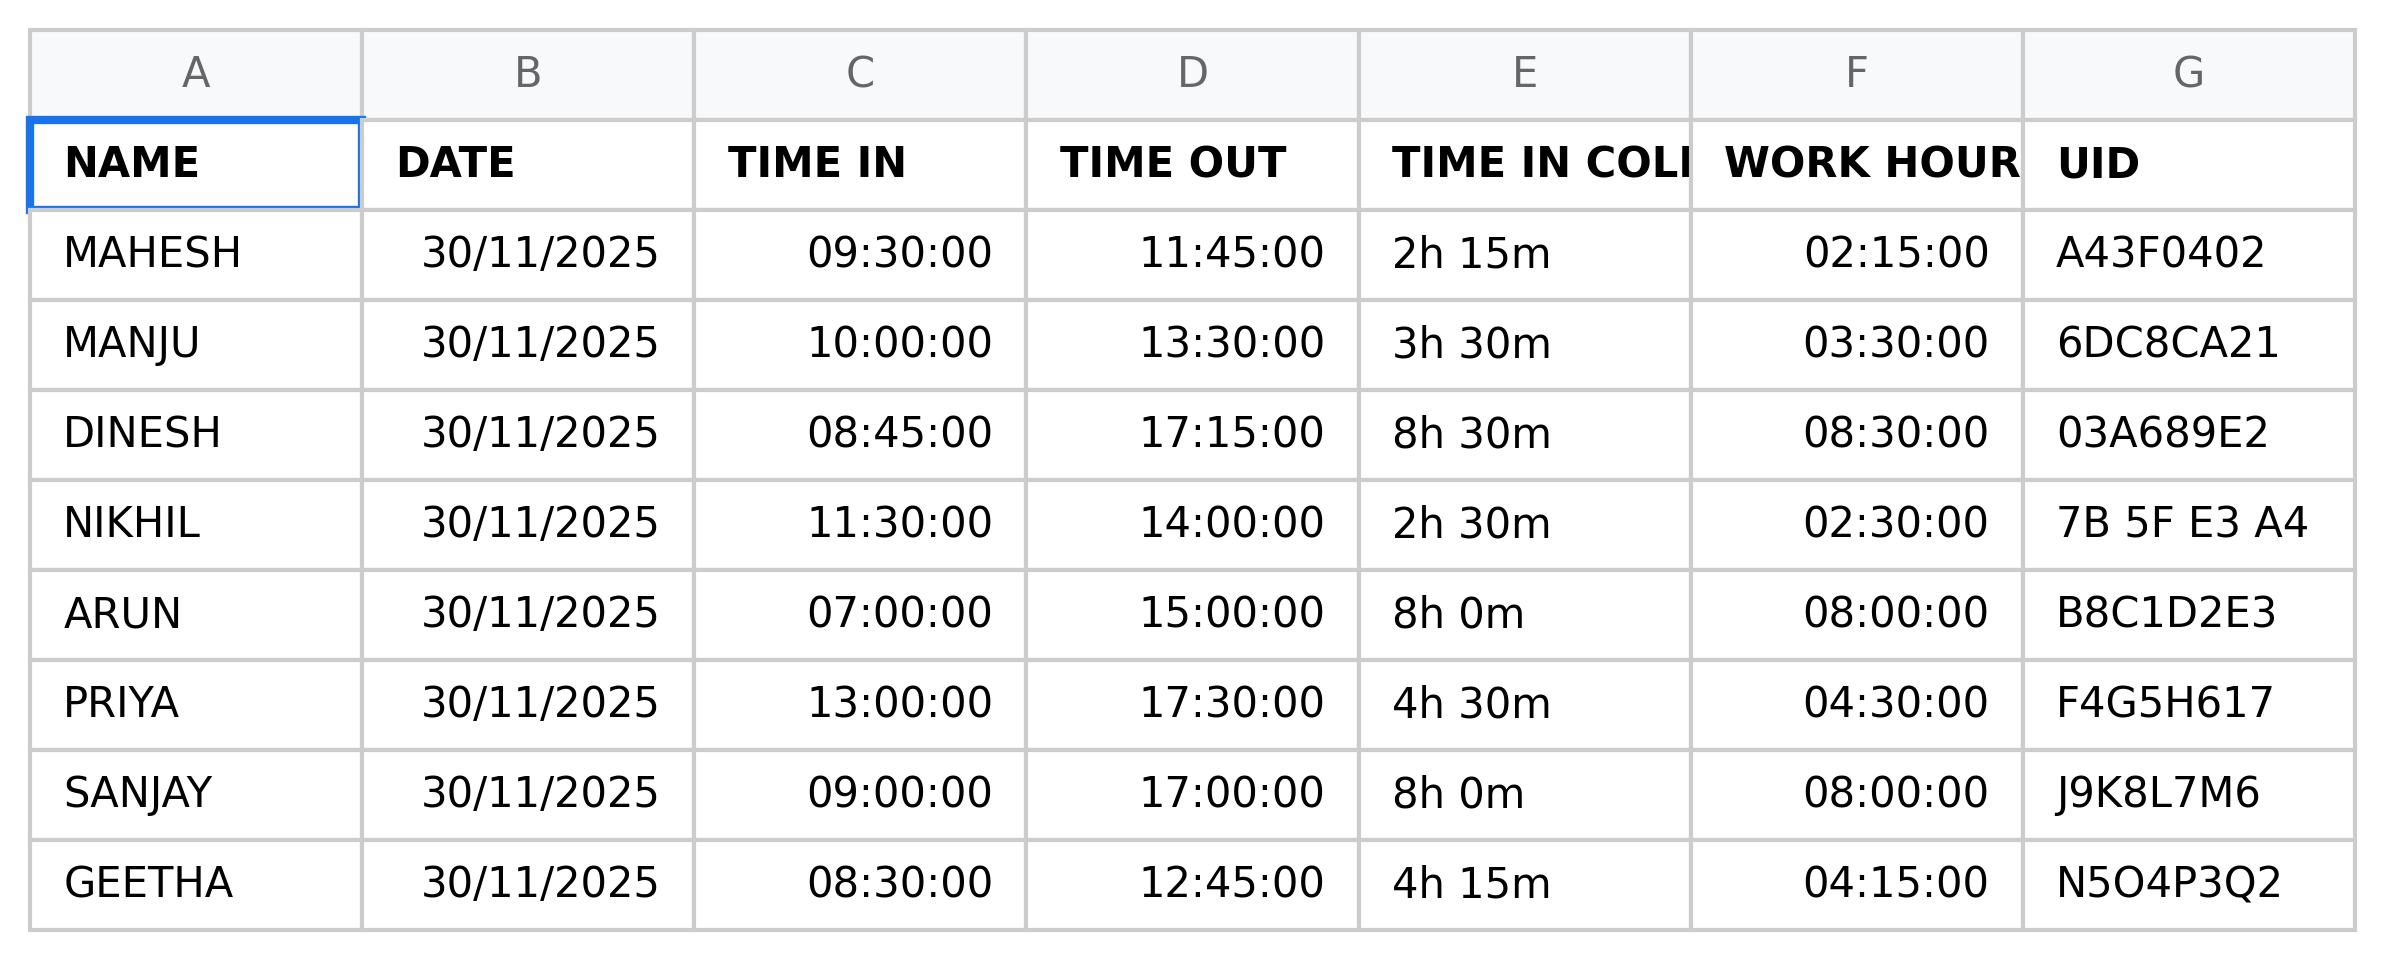
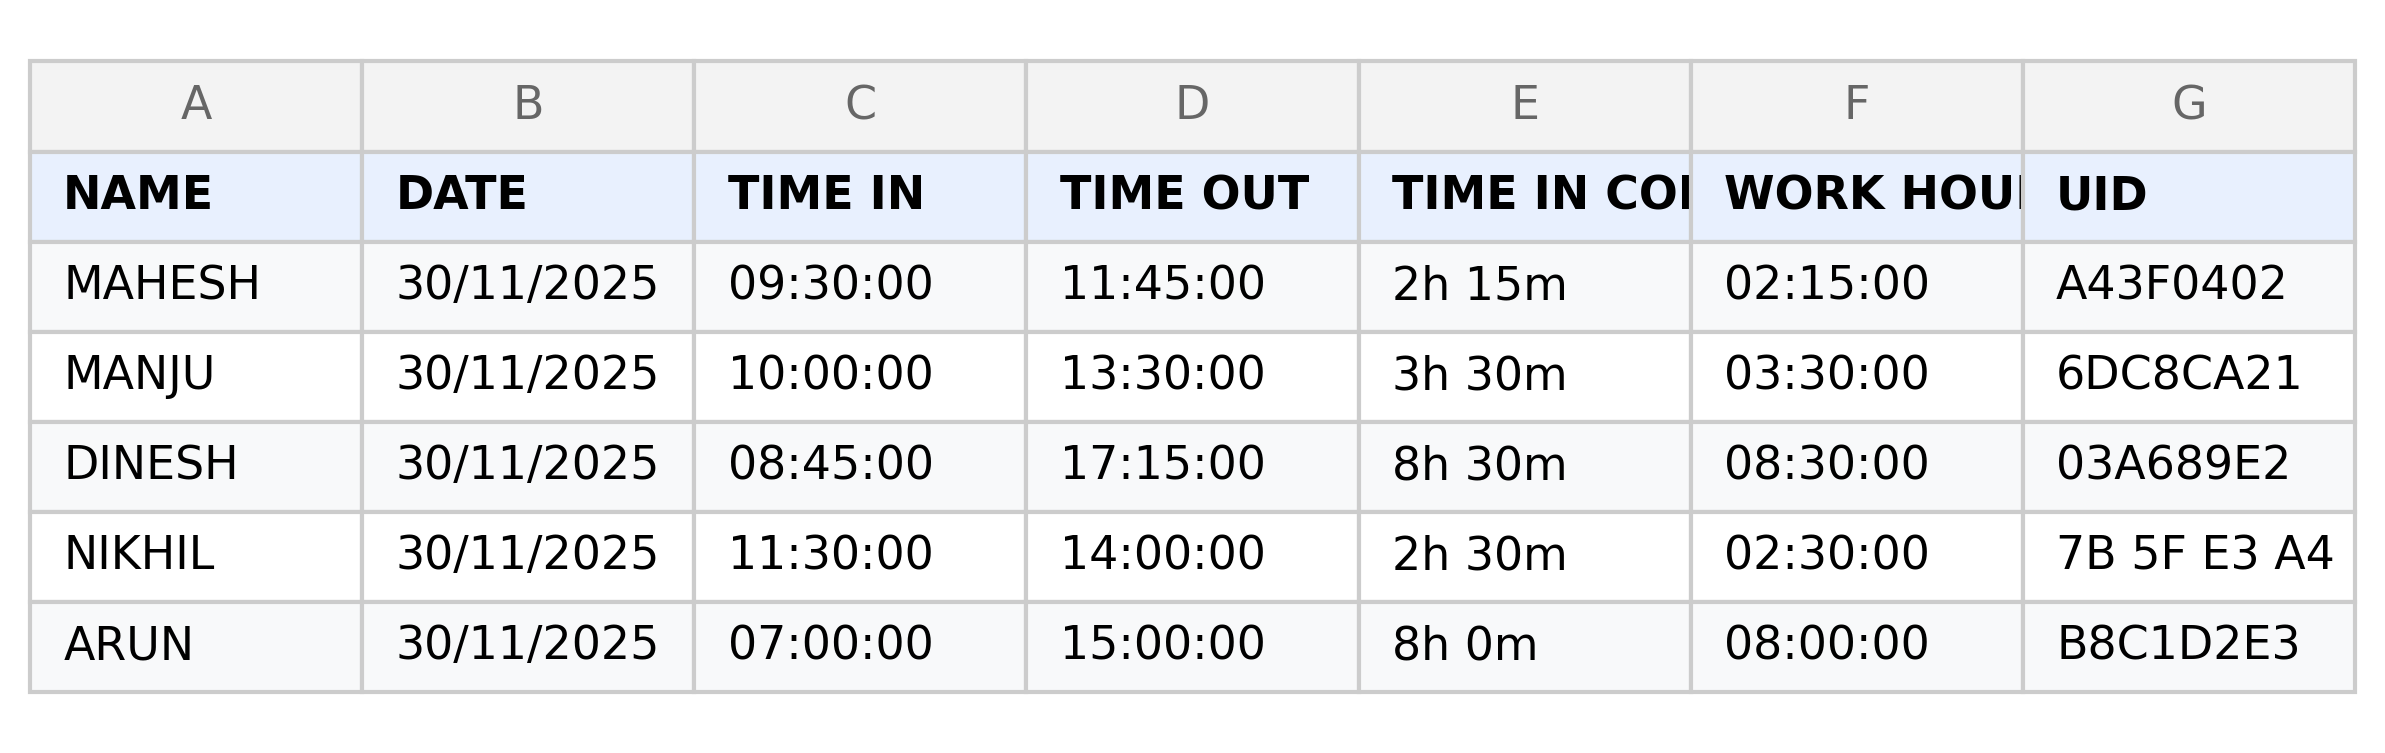
fix: apply color styling to sheet images and merge registered users sheet

Changed region(s): [[0.0, 0.3054, 0.9929, 0.9774], [0.0, 0.0305, 0.9929, 0.2749], [0.8998, 0.1222, 0.9308, 0.1527]]

diff --git a/README.md b/README.md
@@ -41,7 +41,10 @@ It can be used for:
 **2. Google Sheets Logging:**
 ![Output](images/output.png)
 
-**3. ESP32 Serial Monitor:**
+**3. Registered Users Database:**
+![Registered Users](images/registered_users.png)
+
+**4. ESP32 Serial Monitor:**
 ![Serial Monitor](images/serial_monitor.png)
 
 ## 🔐 Security Notes
